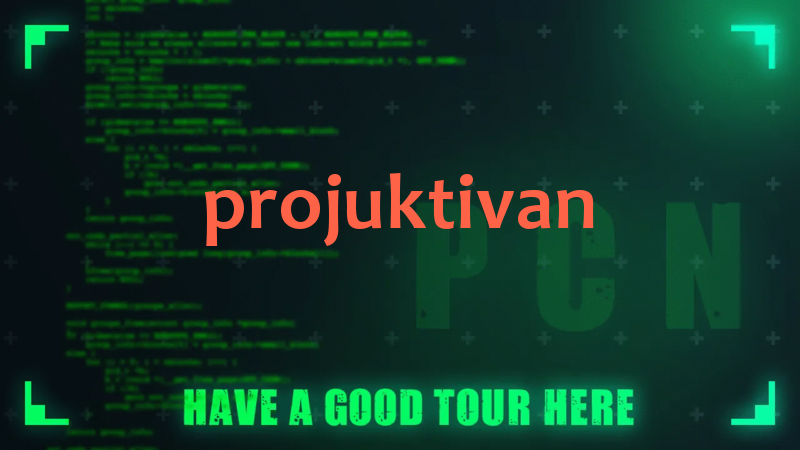
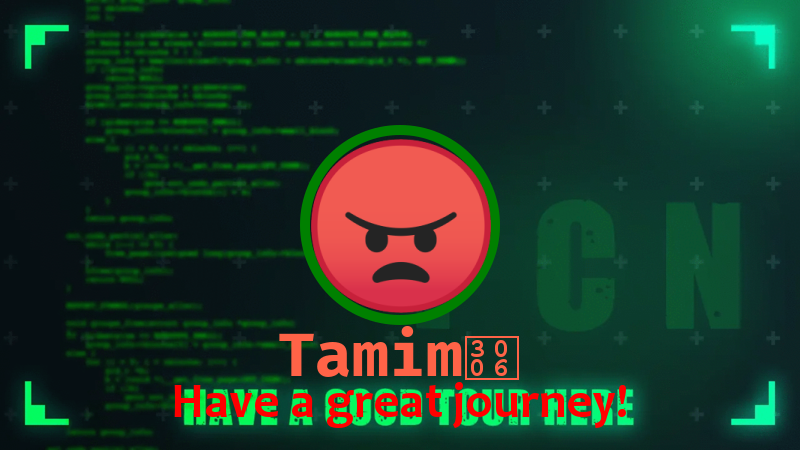
moded construct image

Changed region(s): [[0.2188, 0.28, 0.7812, 0.9644]]

diff --git a/constructImage.js b/constructImage.js
@@ -1,26 +1,58 @@
 const fs = require('fs');
-const { createCanvas, loadImage } = require('canvas');
+const { registerFont, createCanvas, loadImage } = require('canvas');
 
 async function constructImage(memberName) {
 
-    const img = loadImage('./img.png').then(
-        image => {
+    const img = loadImage('./img.png').then(image => {
+        const avatarURL = 'https://cdn.discordapp.com/avatars/457915538396413952/2422a262907f41bc4aca804eaaa5ab05.png?size=256'
+        loadImage(avatarURL).then(circleImage => {
+            // Banner Image
             const width = image.width;
             const height = image.height;
 
             const canvas = createCanvas(width, height);
             const context = canvas.getContext('2d');
 
-            context.font = 'bold 80px Candara';
-            context.textAlign = 'left';
-            context.textBaseline = 'top';
-
+            // Draw Banner Image
             context.drawImage(image, 0, 0, width, height);
 
+            // Draw the circle of avatar
+            context.beginPath();
+            const centerX = parseInt(width / 2);
+            const centerY = parseInt(height / 2);
+            const radius = 95;
+            const startAngle = 0;
+            const endAngle = Math.PI * 2;
+            context.arc(centerX, centerY, radius, startAngle, endAngle);
+            context.closePath();
+
+            //Stroke of the circle
+            context.strokeStyle = "green";
+            context.lineWidth = 10;
+            context.stroke();
+
+            // Draw the avatar image into the circle
+            const circleImageWidth = circleImage.width;
+            const circleImageHeight = circleImage.height;
+            console.log(circleImageWidth, circleImageHeight);
+            context.drawImage(circleImage, centerX - 95, centerY - 95, circleImageWidth * .75, circleImageHeight * .75);
+            const output = canvas.toBuffer();
+
+            // Styling of the text under the avatar circle
+            context.font = 'bold 60px "Fira Code"';
+            context.textAlign = 'left';
+            context.textBaseline = 'top';
             const text = memberName;
+            console.log(text);
             const textWidth = context.measureText(text).width;
             context.fillStyle = 'tomato';
-            context.fillText(text, parseInt((width - textWidth) / 2), 170);
+            context.fillText(text, parseInt((width - textWidth) / 2), 320);
+
+            context.fillStyle = 'red';
+            context.font = 'bold 50px Candara';
+            const greetingText = 'Have a great journey!'
+            const greetingWidth = context.measureText(greetingText).width;
+            context.fillText(greetingText, parseInt((width - greetingWidth) / 2), 380);
 
             const buffer = canvas.toBuffer('image/png');
             try {
@@ -31,11 +63,12 @@ async function constructImage(memberName) {
                 return -1;
             }
         }
-    );
+        )
 
+    });
 }
 
-module.exports = { constructImage };
+constructImage('Tamim〆')
 
 
 // const textWidth = context.measureText(text).width

diff --git a/helperFunctions.js b/helperFunctions.js
@@ -16,13 +16,14 @@ function messageHandler(message) {
         sendMessage(message, "I'm good! What about you?");
     }
     if (message.author.username === 'Angry〆Mental') {
-        constructImage(message.author.username);
-        const attachments = new MessageAttachment('./test.png');
-        console.log(attachments);
-        message.channel.send({
-            files: [attachments],
-            content: `Hello`
-        });
+        console.log(message.author.avatarURL({ 'format': 'png', 'size': 256 }));
+        // constructImage(message.author.username);
+        // const attachments = new MessageAttachment('./test.png');
+        // console.log(attachments);
+        // message.channel.send({
+        //     files: [attachments],
+        //     content: `Hello`
+        // });
     }
 }
 

diff --git a/index.js b/index.js
@@ -52,7 +52,7 @@ client.on('interactionCreate', async interaction => {
         const msgCount = await helpers.fetchAllMessages(channel);
         await interaction.reply(`The channel ${channel.name} has total ${msgCount.length} messages.`);
     }
-    if (interaction.commandName === 'cc') {
+    if (interaction.commandName === 'clr') {
         const deleteCount = interaction.options.get('number') ? parseInt(interaction.options.get('number').value) + 1 : 'all';
         console.log(deleteCount);
         const channel = client.channels.cache.get(interaction.channelId);
